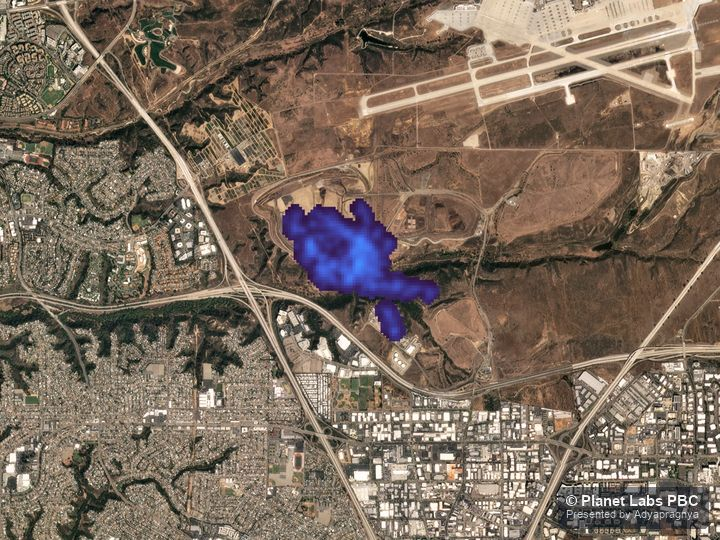
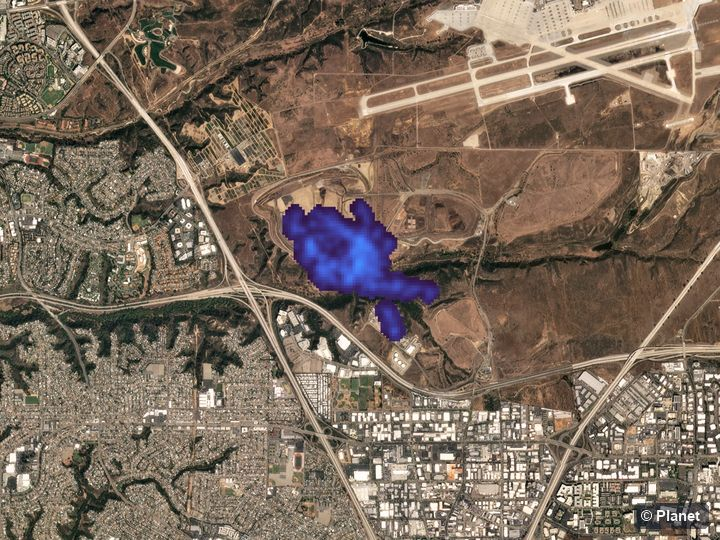
Rebrand OEM to "Planet", sharpen all OEM copy, watermark = © Planet
- Rename partner "Planet Labs"/"Planet Labs PBC" -> "Planet" across
  OEM pages, gallery/lightbox credits, footer credit, image alts
- Rewrite all five OEM pages with punchier, benefit-led marketing copy
  (stronger subtitles, elaborated intros, sharper "What You Gain")
- Watermark simplified to "© Planet" (dropped "Presented by
  Adyapragnya"); regenerated all sat-*.jpg full + thumbs, EXIF updated
- Bump includes.js cache version

Changed region(s): [[0.7639, 0.8889, 1.0, 0.9778]]

diff --git a/js/detail-pages.js b/js/detail-pages.js
@@ -139,20 +139,21 @@
 
     var OEMS = {
         "planet": {
-            title: "Planet Labs",
-            subtitle: "Daily Earth Observation & Satellite Intelligence",
+            title: "Planet",
+            subtitle: "The Entire Earth, Imaged Every Single Day",
             logo: "images/partner-planet.png",
             website: "https://www.planet.com",
             websiteLabel: "planet.com",
             headerBg: "images/sat-vinkeveen-netherlands.jpg",
             intro: [
-                "Planet Labs PBC operates the largest fleet of Earth-imaging satellites, capturing the entire landmass of the planet every single day. This unmatched cadence turns satellite imagery from an occasional snapshot into a continuous, reliable record of change.",
-                "As a Planet partner, Adyapragnya delivers this imagery, basemaps, and analytics-ready data directly into enterprise GIS, monitoring, and decision-support workflows &mdash; with local integration and support."
+                "Planet flies the largest constellation of Earth-imaging satellites ever built &mdash; scanning the entire landmass of the planet, every single day. What was once a rare, expensive snapshot is now a living, always-on record of how the world is changing: block by block, field by field, coastline by coastline.",
+                "That changes the question you can ask. Instead of &ldquo;what did this place look like last year?&rdquo; you can ask &ldquo;what changed here since yesterday?&rdquo; &mdash; and get an answer that is already in orbit, captured, calibrated, and ready to analyse. No waiting weeks for a cloud-free pass. No blind spots between site visits.",
+                "As Planet's partner in the region, Adyapragnya turns that firehose of imagery into decisions. We wire PlanetScope, SkySat and Tanager data straight into your GIS, dashboards and AI pipelines, and stand behind it with local licensing, onboarding, and support you can actually pick up the phone and reach."
             ],
             featureLabel: "Platforms & Products",
-            features: ["PlanetScope Daily Imagery", "SkySat High-Resolution Tasking", "Tanager Hyperspectral", "Planet Basemaps", "Planetary Variables", "Analysis-Ready Data", "Planet Insights Platform", "Automated Change Detection", "Forest Carbon Monitoring", "Roads & Buildings Feeds"],
-            benefits: ["Monitor any location with daily imaging cadence", "Detect change faster with consistent time-series", "Combine imagery, tasking, and analytics in one platform", "Reduce field visits through dependable remote monitoring", "Work with calibrated, analysis-ready data"],
-            ideal: ["Agriculture", "Forestry", "Government", "Defense & Intelligence", "Environmental Monitoring", "Insurance", "Infrastructure"],
+            features: ["PlanetScope — Daily Global Imagery", "SkySat — High-Resolution Tasking", "Tanager — Hyperspectral Intelligence", "Planet Basemaps", "Planetary Variables", "Analysis-Ready Data", "Planet Insights Platform", "Automated Change Detection", "Forest Carbon Monitoring", "Roads & Buildings Feeds"],
+            benefits: ["Watch any site on Earth change day by day &mdash; not quarter by quarter", "Catch problems early with a consistent, comparable time-series", "Task a fresh high-resolution image of a specific location on demand", "Retire costly, risky site visits with dependable remote monitoring", "Detect trace-gas and methane signatures invisible to standard imagery", "Feed clean, analysis-ready data straight into AI and GIS workflows"],
+            ideal: ["Agriculture", "Forestry & Carbon", "Government", "Defense & Intelligence", "Energy & Utilities", "Environmental Monitoring", "Insurance", "Infrastructure"],
             gallery: [
                 { base: "sat-tokyo-airport", caption: "Haneda Airport, Tokyo &mdash; PlanetScope quarterly mosaic (2025 Q3)" },
                 { base: "sat-vinkeveen-netherlands", caption: "Vinkeveen, Netherlands &mdash; super-resolution monthly visual (2025)" },
@@ -165,63 +166,63 @@
         },
         "greenhyla": {
             title: "GreenHyla",
-            subtitle: "Maritime Domain Intelligence Platform",
+            subtitle: "Know Where Every Vessel Is — In Real Time",
             logo: "images/partner-hyla.png",
             website: "https://www.greenhyla.com",
             websiteLabel: "greenhyla.com",
             intro: [
-                "GreenHyla is a maritime intelligence platform that brings live visibility to vessel activity, fleet operations, and port performance in a single operational picture.",
-                "Adyapragnya integrates GreenHyla's maritime data with enterprise GIS and analytics so operators, authorities, and logistics teams can plan voyages and manage risk with clearer, spatially grounded intelligence."
+                "The ocean is the world's busiest blind spot &mdash; thousands of vessels moving cargo, crews and risk across open water every hour. GreenHyla turns that chaos into a single, live operational picture: where every ship is, where it has been, and where it is headed.",
+                "Adyapragnya fuses GreenHyla's maritime feeds with your enterprise GIS and analytics, so operators, port authorities and logistics teams can plan voyages, flag anomalies and manage risk with intelligence grounded in real position &mdash; not guesswork."
             ],
             featureLabel: "Capabilities",
             features: ["Live Vessel Tracking", "AIS Data Integration", "Fleet Performance Analytics", "Port Activity Monitoring", "Voyage & Route Intelligence", "Maritime Risk Assessment", "Historical Track Analysis", "Zone & Geofence Alerts"],
-            benefits: ["Maintain live visibility across vessel activity", "Understand fleet and port performance", "Plan voyages with clearer risk intelligence", "Bring maritime data into your GIS", "Support faster operational decisions"],
+            benefits: ["See every vessel's live position, history and heading at a glance", "Get alerted the moment a ship enters a zone or behaves abnormally", "Benchmark fleet and port performance on real movement data", "Plan voyages and berths with clearer, evidence-based risk intelligence", "Bring maritime awareness straight into your GIS and dashboards"],
             ideal: ["Ports & Terminals", "Shipping & Logistics", "Maritime Authorities", "Coastal Surveillance", "Offshore Operations"]
         },
         "capknow": {
             title: "CAPKNOW",
-            subtitle: "GeoPMS &mdash; GIS-Based Project Monitoring System",
+            subtitle: "GeoPMS — See Your Whole Programme on One Live Map",
             logo: "images/partner-capknow.png",
             website: "https://capknow.com",
             websiteLabel: "capknow.com",
             intro: [
-                "CAPKNOW's GeoPMS is a GIS-based project monitoring system that unifies physical progress, financial status, and field evidence on one live, map-driven dashboard.",
-                "Adyapragnya implements GeoPMS for programmes and infrastructure portfolios, giving project teams and leadership decision-ready intelligence backed by geo-tagged, verifiable field data."
+                "On large programmes, the gap between the status report and the ground is where budgets quietly bleed. CAPKNOW's GeoPMS closes it &mdash; putting physical progress, financial status and geo-tagged field evidence on one live, map-driven dashboard that every stakeholder can trust.",
+                "Adyapragnya rolls out GeoPMS across programmes and infrastructure portfolios, so project teams see reality as it happens and leadership gets decision-ready intelligence backed by verifiable, location-stamped proof &mdash; not optimistic spreadsheets."
             ],
             featureLabel: "Capabilities",
             features: ["GIS Project Dashboards", "Geo-Tagged Progress Capture", "Milestone & Schedule Tracking", "Field Inspection Workflows", "Physical vs Financial Progress", "Photo & Document Evidence", "Executive MIS Reporting", "Multi-Project Portfolio View"],
-            benefits: ["See project health in one live dashboard", "Verify progress through geo-tagged inspections", "Give leaders decision-ready project intelligence", "Reduce reporting delays and disputes", "Track large project portfolios consistently"],
+            benefits: ["See true project health &mdash; physical and financial &mdash; in one live view", "Verify progress with geo-tagged, photo-backed field inspections", "Replace disputed status meetings with evidence everyone can see", "Give leadership decision-ready intelligence, not stale spreadsheets", "Govern dozens of projects with one consistent, auditable system"],
             ideal: ["Government Programmes", "Infrastructure", "Urban Development", "Utilities", "EPC & Construction"]
         },
         "hexagon": {
             title: "Hexagon Geospatial",
-            subtitle: "Enterprise Geospatial & Remote Sensing Technology",
+            subtitle: "The Engine Behind Enterprise-Grade Geospatial",
             logo: "images/partner-hexagon.png",
             website: "https://hexagon.com",
             websiteLabel: "hexagon.com",
             headerBg: "images/sat-skye-scotland.jpg",
             intro: [
-                "Hexagon's geospatial portfolio powers some of the world's most demanding remote sensing, photogrammetry, and enterprise mapping workflows &mdash; from raw imagery processing to advanced visualization and delivery.",
-                "Adyapragnya deploys and integrates the Hexagon stack, connecting best-in-class geospatial software to your operations with implementation, training, and long-term support."
+                "When the imagery is massive and the accuracy is non-negotiable, Hexagon is the engine behind the map. Its geospatial portfolio powers some of the most demanding remote sensing, photogrammetry and enterprise mapping workflows on earth &mdash; from raw pixels to polished, decision-grade products.",
+                "Adyapragnya deploys, integrates and tunes the full Hexagon stack around the way your teams actually work &mdash; backed by implementation, training and long-term support, so world-class software becomes everyday capability."
             ],
             featureLabel: "Products",
             features: ["ERDAS IMAGINE", "GeoMedia", "Luciad Portfolio", "M.App Enterprise", "GeoMedia Smart Client", "ERDAS Apollo", "Photogrammetry Suite", "Spatial Modeler"],
-            benefits: ["Analyze imagery with ERDAS IMAGINE & GeoMedia", "Build advanced experiences with Luciad & M.App", "Streamline geospatial delivery with Apollo", "Automate raster and remote-sensing workflows", "Scale enterprise geospatial delivery"],
+            benefits: ["Process and analyse huge imagery volumes with ERDAS IMAGINE", "Build precise enterprise maps and models in GeoMedia", "Deliver fast, rich geospatial experiences with the Luciad portfolio", "Automate repetitive raster and remote-sensing workflows", "Publish and serve geospatial data at scale with ERDAS Apollo"],
             ideal: ["Government", "Defense & Intelligence", "Utilities", "Mapping Agencies", "Environment", "Infrastructure"]
         },
         "foreintel": {
             title: "Foreintel Solutions",
-            subtitle: "Professional Drone & UAV Solutions",
+            subtitle: "Survey the Unreachable — From the Air",
             logo: "images/partner-foreintel.png",
             website: "https://www.foreintel.tech",
             websiteLabel: "foreintel.tech",
             intro: [
-                "Foreintel Solutions provides professional-grade drone and UAV platforms engineered for survey, mapping, inspection, and monitoring missions across demanding environments.",
-                "Adyapragnya matches the right platform and payload to your accuracy, terrain, and coverage requirements &mdash; then supports data capture and geospatial processing end-to-end."
+                "Some sites are too large, too steep or too dangerous to survey on foot &mdash; and that is exactly where drones earn their keep. Foreintel builds professional-grade UAV platforms engineered for survey, mapping, inspection and monitoring in the environments that defeat conventional methods.",
+                "Adyapragnya matches the right airframe and payload to your accuracy, terrain and coverage, then carries the mission through end to end &mdash; from flight planning and capture to survey-grade, GIS-ready deliverables."
             ],
             featureLabel: "Platforms & Payloads",
             features: ["Fixed-Wing UAVs", "Multirotor Platforms", "VTOL Systems", "Survey & Mapping Payloads", "Thermal & Multispectral Sensors", "LiDAR Payloads", "Ground Control Stations", "Mission Planning Software"],
-            benefits: ["Match survey and mapping needs with the right UAV", "Choose fixed-wing, multirotor or VTOL platforms", "Extend missions with thermal and specialist payloads", "Capture large areas efficiently and safely", "Deliver survey-grade, GIS-ready outputs"],
+            benefits: ["Cover large or hazardous sites in a fraction of the time and risk", "Pick the ideal fixed-wing, multirotor or VTOL platform per mission", "Add thermal, multispectral or LiDAR payloads for specialist surveys", "Capture repeatable, centimetre-grade data on demand", "Turn flights into survey-grade, GIS-ready deliverables"],
             ideal: ["Survey & Mapping", "Mining", "Infrastructure", "Agriculture", "Renewable Energy", "Disaster Response"]
         }
     };
@@ -243,7 +244,7 @@
         if (oem.gallery && oem.gallery.length) {
             galleryHtml =
                 '<div class="detail-block">' +
-                    '<div class="detail-block-heading"><h2>Imagery Gallery</h2><p>Real Earth observation captured by Planet Labs PBC. Click any frame to enlarge.</p></div>' +
+                    '<div class="detail-block-heading"><h2>Imagery Gallery</h2><p>Real Earth observation captured by Planet. Click any frame to enlarge.</p></div>' +
                     '<div class="oem-gallery">' +
                     list(oem.gallery, function (shot, i) {
                         return '<a class="oem-gallery-item" href="images/' + shot.base + '.jpg" data-index="' + i + '">' +
@@ -253,7 +254,7 @@
                                 '</a>';
                     }) +
                     '</div>' +
-                    '<p class="oem-gallery-credit">Imagery &copy; Planet Labs PBC</p>' +
+                    '<p class="oem-gallery-credit">Imagery &copy; Planet</p>' +
                 '</div>';
         }
 
@@ -319,7 +320,7 @@
                 '<figcaption class="oem-lightbox-caption"></figcaption>' +
             '</figure>' +
             '<div class="oem-lightbox-counter"></div>' +
-            '<div class="oem-lightbox-credit">Imagery &copy; Planet Labs PBC</div>';
+            '<div class="oem-lightbox-credit">Imagery &copy; Planet</div>';
         document.body.appendChild(overlay);
 
         var imgEl = overlay.querySelector(".oem-lightbox-img");

diff --git a/oem-products.html b/oem-products.html
@@ -86,7 +86,7 @@
                 <span><i></i> Global technology ecosystem</span>
                 <span>05 strategic partners</span>
             </div>
-            <a class="oem-gravity-item oem-gravity-logo" data-x="0.05" data-delay="0" href="oem-planet.html" aria-label="Planet Labs &mdash; drag or view details"><img src="images/partner-planet.png" alt="Planet Labs"></a>
+            <a class="oem-gravity-item oem-gravity-logo" data-x="0.05" data-delay="0" href="oem-planet.html" aria-label="Planet &mdash; drag or view details"><img src="images/partner-planet.png" alt="Planet"></a>
             <a class="oem-gravity-item oem-gravity-logo" data-x="0.25" data-delay="110" href="oem-greenhyla.html" aria-label="GreenHyla &mdash; drag or view details"><img src="images/partner-hyla.png" alt="GreenHyla"></a>
             <a class="oem-gravity-item oem-gravity-logo" data-x="0.44" data-delay="220" href="oem-capknow.html" aria-label="CAPKNOW &mdash; drag or view details"><img src="images/partner-capknow.png" alt="CAPKNOW"></a>
             <a class="oem-gravity-item oem-gravity-logo" data-x="0.64" data-delay="330" href="oem-hexagon.html" aria-label="Hexagon Geospatial &mdash; drag or view details"><img src="images/partner-hexagon.png" alt="Hexagon Geospatial"></a>
@@ -118,9 +118,9 @@
                     <div class="service-item wow fadeInUp">
                         <div class="service-item-box">
                             <div class="service-item-header">
-                                <div class="icon-box oem-logo-box"><img src="images/partner-planet.png" alt="Planet Labs logo"></div>
+                                <div class="icon-box oem-logo-box"><img src="images/partner-planet.png" alt="Planet logo"></div>
                                 <div class="service-item-content">
-                                    <h2><a href="oem-planet.html">Planet Labs</a></h2>
+                                    <h2><a href="oem-planet.html">Planet</a></h2>
                                     <p>Daily Earth observation &amp; satellite intelligence.</p>
                                 </div>
                             </div>
@@ -664,8 +664,8 @@
                         <!-- Comapany Support Slider Start -->
                         <div class="partner-grid">
                             <a class="partner-card" href="oem-planet.html">
-                                <span class="partner-card-logo"><img src="images/partner-planet.png" alt="Planet Labs logo"></span>
-                                <span class="partner-card-name">Planet Labs</span>
+                                <span class="partner-card-logo"><img src="images/partner-planet.png" alt="Planet logo"></span>
+                                <span class="partner-card-name">Planet</span>
                             </a>
                             <a class="partner-card" href="oem-greenhyla.html">
                                 <span class="partner-card-logo"><img src="images/partner-hyla.png" alt="GreenHyla logo"></span>
@@ -821,7 +821,7 @@
 
     <!-- Shared header/footer injector -->
 
-    <script src="js/includes.js?v=20260824-1"></script>
+    <script src="js/includes.js?v=20260824-2"></script>
 
     <script src="js/jquery-3.7.1.min.js"></script>
     <!-- Bootstrap js file -->

diff --git a/index.html b/index.html
@@ -168,7 +168,7 @@
                         <!-- About us Image Start -->
                         <div class="about-us-image-1-silver">
                             <figure class="image-anime">
-                                <img src="images/sat-tokyo-airport.jpg" alt="Satellite imagery of urban area, Planet Labs">
+                                <img src="images/sat-tokyo-airport.jpg" alt="Satellite imagery of urban area, Planet">
                             </figure>
                         </div>
                         <!-- About us Image End -->
@@ -176,7 +176,7 @@
                         <!-- About us Image Start -->
                         <div class="about-us-image-2-silver">
                             <figure class="image-anime">
-                                <img src="images/sat-muhazi-rwanda-thumb.jpg" alt="Satellite imagery of lake and land, Planet Labs">
+                                <img src="images/sat-muhazi-rwanda-thumb.jpg" alt="Satellite imagery of lake and land, Planet">
                             </figure>
                         </div>
                         <!-- About us Image End -->
@@ -284,7 +284,7 @@
                                     <img src="images/service-gis.png" alt="Geographic Information Systems">
                                 </figure>
                             </a>
-                            <span class="img-credit">Imagery &copy; Planet Labs PBC</span>
+                            <span class="img-credit">Imagery &copy; Planet</span>
                         </div>
                         <!-- Service Item Image End -->
 
@@ -875,7 +875,7 @@
 
     <!-- Shared header/footer injector -->
 
-    <script src="js/includes.js?v=20260824-1"></script>
+    <script src="js/includes.js?v=20260824-2"></script>
 
     <script src="js/jquery-3.7.1.min.js"></script>
     <!-- Bootstrap js file -->

diff --git a/oem-planet.html b/oem-planet.html
@@ -5,8 +5,8 @@
     <meta charset="utf-8">
     <meta name="viewport" content="width=device-width, initial-scale=1.0, maximum-scale=1">
     <meta name="description"
-        content="Planet Labs daily Earth observation, PlanetScope, SkySat and Tanager satellite imagery, delivered and integrated by Adyapragnya.">
-    <title>Planet Labs &mdash; Adyapragnya Technologies</title>
+        content="Planet daily Earth observation, PlanetScope, SkySat and Tanager satellite imagery, delivered and integrated by Adyapragnya.">
+    <title>Planet &mdash; Adyapragnya Technologies</title>
     <link rel="shortcut icon" type="image/x-icon" href="images/favicon.png">
     <link rel="preconnect" href="https://fonts.googleapis.com">
     <link rel="preconnect" href="https://fonts.gstatic.com" crossorigin>
@@ -31,7 +31,7 @@
     <main id="detail-page" data-detail-id="planet"></main>
     <div data-include="footer"></div>
     <script src="js/detail-pages.js"></script>
-    <script src="js/includes.js?v=20260824-1"></script>
+    <script src="js/includes.js?v=20260824-2"></script>
     <script src="js/jquery-3.7.1.min.js"></script>
     <script src="js/bootstrap.min.js"></script>
     <script src="js/validator.min.js"></script>

diff --git a/about.html b/about.html
@@ -82,7 +82,7 @@
                         <!-- About Us Image Start -->
                         <div class="about-us-image">
                             <figure class="image-anime">
-                                <img src="images/sat-tokyo-airport.jpg" alt="Satellite imagery of urban area, Planet Labs">
+                                <img src="images/sat-tokyo-airport.jpg" alt="Satellite imagery of urban area, Planet">
                             </figure>
                         </div>
                         <!-- About Us Image End -->
@@ -964,7 +964,7 @@
 
     <!-- Shared header/footer injector -->
 
-    <script src="js/includes.js?v=20260824-1"></script>
+    <script src="js/includes.js?v=20260824-2"></script>
 
     <script src="js/jquery-3.7.1.min.js"></script>
     <!-- Bootstrap js file -->

diff --git a/js/includes.js b/js/includes.js
@@ -115,7 +115,7 @@
               '</ul></div>' +
             '</div>' +
             '<div class="footer-copyright-text"><p>Copyright &copy; <span data-current-year>2026</span> Adyapragnya Technologies Private Limited. All Rights Reserved.</p>' +
-              '<p class="footer-image-credit">Satellite imagery courtesy of and &copy; Planet Labs PBC. Used with permission.</p></div>' +
+              '<p class="footer-image-credit">Satellite imagery &copy; Planet. Used with permission.</p></div>' +
           '</div></div>' +
         '</div>' +
       '</div>' +

diff --git a/service-enterprise-software.html b/service-enterprise-software.html
@@ -30,7 +30,7 @@
     <main id="detail-page" data-detail-id="enterprise-software"></main>
     <div data-include="footer"></div>
     <script src="js/detail-pages.js"></script>
-    <script src="js/includes.js?v=20260824-1"></script>
+    <script src="js/includes.js?v=20260824-2"></script>
     <script src="js/jquery-3.7.1.min.js"></script>
     <script src="js/bootstrap.min.js"></script>
     <script src="js/validator.min.js"></script>

diff --git a/product-face-recognition.html b/product-face-recognition.html
@@ -30,7 +30,7 @@
     <main id="detail-page" data-detail-id="face-recognition"></main>
     <div data-include="footer"></div>
     <script src="js/detail-pages.js"></script>
-    <script src="js/includes.js?v=20260824-1"></script>
+    <script src="js/includes.js?v=20260824-2"></script>
     <script src="js/jquery-3.7.1.min.js"></script>
     <script src="js/bootstrap.min.js"></script>
     <script src="js/validator.min.js"></script>

diff --git a/service-remote-sensing.html b/service-remote-sensing.html
@@ -31,7 +31,7 @@
     <main id="detail-page" data-detail-id="remote-sensing"></main>
     <div data-include="footer"></div>
     <script src="js/detail-pages.js"></script>
-    <script src="js/includes.js?v=20260824-1"></script>
+    <script src="js/includes.js?v=20260824-2"></script>
     <script src="js/jquery-3.7.1.min.js"></script>
     <script src="js/bootstrap.min.js"></script>
     <script src="js/validator.min.js"></script>

diff --git a/product-craftedge-erp.html b/product-craftedge-erp.html
@@ -31,7 +31,7 @@
     <main id="detail-page" data-detail-id="craftedge-erp"></main>
     <div data-include="footer"></div>
     <script src="js/detail-pages.js"></script>
-    <script src="js/includes.js?v=20260824-1"></script>
+    <script src="js/includes.js?v=20260824-2"></script>
     <script src="js/jquery-3.7.1.min.js"></script>
     <script src="js/bootstrap.min.js"></script>
     <script src="js/validator.min.js"></script>

diff --git a/service-cloud-managed.html b/service-cloud-managed.html
@@ -31,7 +31,7 @@
     <main id="detail-page" data-detail-id="cloud-managed"></main>
     <div data-include="footer"></div>
     <script src="js/detail-pages.js"></script>
-    <script src="js/includes.js?v=20260824-1"></script>
+    <script src="js/includes.js?v=20260824-2"></script>
     <script src="js/jquery-3.7.1.min.js"></script>
     <script src="js/bootstrap.min.js"></script>
     <script src="js/validator.min.js"></script>

diff --git a/service-drone-survey.html b/service-drone-survey.html
@@ -31,7 +31,7 @@
     <main id="detail-page" data-detail-id="drone-survey"></main>
     <div data-include="footer"></div>
     <script src="js/detail-pages.js"></script>
-    <script src="js/includes.js?v=20260824-1"></script>
+    <script src="js/includes.js?v=20260824-2"></script>
     <script src="js/jquery-3.7.1.min.js"></script>
     <script src="js/bootstrap.min.js"></script>
     <script src="js/validator.min.js"></script>
